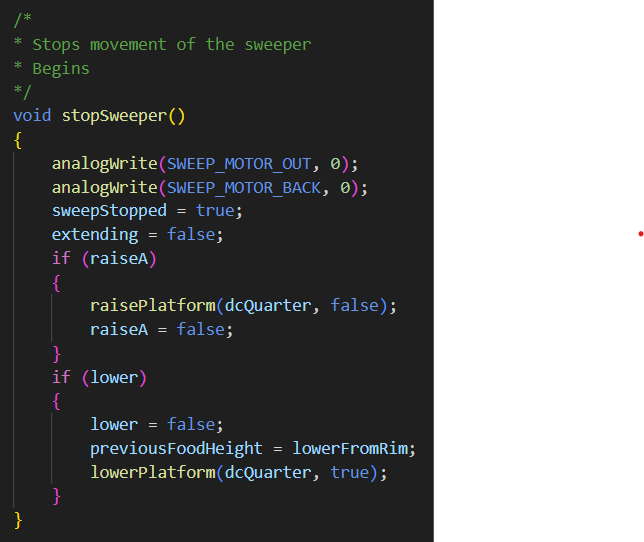
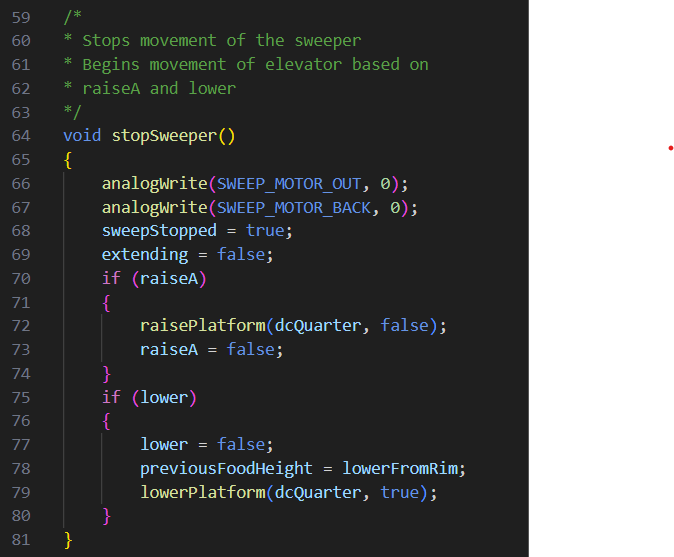
RobotComp page entirely complete!

diff --git a/src/components/pages/projects/robotcomp/timelineElements.js b/src/components/pages/projects/robotcomp/timelineElements.js
@@ -291,17 +291,17 @@ let timelineElements = [
       id: 4,
       title: "Arm & Elevator Control",
       description:
-        "As is seen in the video above, our robots swept in items with a long arm, as well as lowered/raised their internal elevator. Achieving that precision and coordination took time and testing.",
+        "As is seen in the video above, our robots swept in items with long arms, as well as lowered/raised their internal elevators. Achieving that precision and coordination took time and testing.",
       icon: "mcu",
       content:
         <div>
           Now that our robot was well on it's way to being fully constructed, I could get started on testing approaches for controlling the sweeper and elevator. 
-          To clarify what I mean by arm and sweeper, here is a video of them moving simulatenously.
+          To clarify what I mean by sweeper (aka arm) and elevator, here is a video of them moving simulatenously.
           <video muted controls className="adjust-demo-video">
             <source src="/images/burger_adjust_demo.mp4" type="video/mp4" />
               Your browser does not support the video tag.
           </video>
-          <br />I filmed the above video to send to the rest of my team after I had gotten the above to work. 
+          <br />I filmed the above video to send to the rest of my team after I had got it to work. 
           It's purpose was to adjust the burger into a more well-stacked position before serving it. 
           First, the sweeper retracts to pull the top bun onto the rest of the burger, then the elevator raises, 
           and the sweeper retracts back a small amount so that the patty and top bun became centred on the burger. 
@@ -312,24 +312,24 @@ let timelineElements = [
           Each was connected through a gear mechanism to a rotary encoder. 
           Additionally, we placed limit switches as "resets", so that any small errors in the signal received from the encoders would not accumulate. 
           Each encoder and switch were attached to their own interrupts. I'll start by explaining the encoder interrupts.
-          <img src="/images/sweepencoderinterrupt.png" alt="Rotary encoder interrupt for sweeper" className="bubs" />
-          <br />Hopefully it is clear from my code that I try to make it as readable as possible. 
+          <img src="/images/sweepencoderinterrupt.png" alt="Rotary encoder interrupt for sweeper" className="interrupt" />
+          <br />Just a couple quick notes: Hopefully it is clear from my code that I try to make it as readable as possible. 
           For this project I added high level comments for some functions, however if I was working with a team, 
           I would have added more elaborate comments in the header files. 
           Additionally, I try my best to avoid magic numbers, instead creating variables with descriptive names. 
           I always add white space in what I take to be a sensible manner (messy code bothers me). 
-          <br /><br />The crux of this function is how it handles the signals from the encoder. 
-          But before I explain the above method, I'll explain what we were originally using:
+          <br /><br />The most interesting part of this function is how it handles the signals from the encoder. 
+          But before I explain the above method, I'll explain what we were originally using:<br />
           <img src="/images/oldsweepinterrupt.png" alt="Old rotary encoder interrupt for sweeper" className="bubs" />
           <br />In order to explain, I will reference the following diagram for quadrature encoders:
-          <img src="/images/oldquadratureencoder.png" alt="Pulse channels for quadrature encoders (previous method)" className="bubs" />
+          <img src="/images/oldencoderdiagram.jpg" alt="Pulse channels for quadrature encoders (previous method)" className="subs" />
           <br />In separate initialization code, the interrupt function is set to be triggered upon a detected rising edge in SWEEP_ENCODER_1, named Channel A in the diagram. 
           I've marked red dots indicating the values of the two channels at the rising edges of Channel A. A simple differentiation between a clockwise and counterclockwise rotation was checking whether or not the values from the two channels were equal, as is done in the code above. 
           This worked well and provided enough precision for the sweeper, but the elevator required more precision. Given our gear ratio, each pulse we measured from the elevator's encoder indicated 1.636mm of vertical displacement (this constant is referred to as SWEEP_PULSE_DISTANCE in the code). 
           Our strategy involved aligning the partially stacked burger perfectly at the height of the counter to sweep on the next item, and in combination with random variation, an accuracy of only about 2mm wasn't ideal. 
           To improve on this, my teammate and I updated the method in which we analyzed the encoder channels. 
-          By reading the current values and comparing them with the <i>previous</i> values. This can be done at every transition of either channel, which is 4 times more often than the previous method, as indicated in the below diagram. 
-          <img src="/images/newquadratureencoder.png" alt="Pulse channels for quadrature encoders (updated method)" className="bubs" />
+          By reading the current values and comparing them with the <i>previous</i> values. This can be done at every transition of either channel, which is 4 times more often than the previous method, as indicated in the below diagram.<br />
+          <img src="/images/newencoderdiagram.jpg" alt="Pulse channels for quadrature encoders (updated method)" className="subs" />
           <br />Here is the relevant part of the updated interrupt function:
           <img src="/images/sweepinterruptfirst.png" alt="Rotary encoder channel analysis" className="bubs" />
           <br />The first few lines of the function perform bitwise operations to combine the 2 new values with the two previous.
@@ -342,21 +342,35 @@ let timelineElements = [
           This was because some counters were higher than others, and when the competition surfaces would get moved down and rebuilt in the theatre, the heights could change on the day of the competition. 
           This meant it would be too risky to rely on having our robots perfectly align with the height of the counters. 
           <br /><br />I'll now explain the second half of the interrupt function and how it accounted to various aspects of our mechanical design. 
-          Once again, here is the relevant code section:
+          Once again, here is the relevant code section:<br />
           <img src="/images/sweepinterruptsecond.png" alt="Sweep encoder interrupt distance checks" className="bubs" />
-          <br />
-          TODO:
-            - explain need for slowing down when extending
-            - explain overshoot distance
-            - possible explain where distanceToSweep comes from
-          <div className="content-wrapper">
-            <div className="image-content">
-              <img src="/images/sweepswitchinterrupt.png" alt="Limit switch interrupt for sweeper" className="gm-left" />
-            </div>
-            <div className="image-content">
-              <img src="/images/stopsweeperfunction.png" alt="stopSweeper function" className="jm-right" />
-            </div>
-          </div>
+          <br />After sweepCounter is updated in the first part of the interrupt, 
+          there are two checks being made in the second part. 
+          The first check determines if the item has been swept onto the burger far enough. 
+          This check only happens when the sweeper is retracting, and has yet to be stopped. 
+          The number of pulses counted in sweepCounter is then compared to the number of desired ticks, which is in turn calculated by taking the distanceToSweep (in mm, and determined by the current station the robot is at), 
+          and dividing it by the SWEEP_PULSE_DISTANCE (in mm per encoder tick). 
+          The sweeper would carry enough momentum to travel a short distance even after the PWM signal to the motor had ceased. 
+          I empirically determined the OVERSHOOT_DIST to be 9.8mm. 
+          This value would be affected by changes in things such as the speed or mass of the sweeper, or the design of the gear system that connected the rail to the motor and encoder. 
+          Once I accounted for the overshooting, and the motor turned off when the sweeper was 9.8mm from the final position, it lined up perfectly with where it needed to be. 
+          <br /><br />The other check at the end of the interrupt function slows down the motor if it has extended a certain distance. 
+          At first, I had the sweeper extending at a constant speed. However in testing, the acrylic gears we were using broke, multiple times. 
+          It happened because of the sudden force applied to the gears when the sweeper went from extending to being stationary. 
+          In addition to waterjet cutting new gears out of polycarbonate (which is less brittle than acrylic), I added the check to slow down the sweeper before it reaches the end. 
+          The only time it is extending <i>not</i> to prepare for sweeping the next item is serving the plate, which is why I added the condition that the current station cannot be the serving area. 
+          <br /><br />That was the essence of how the firmware controlled the sweeper, as well as the elevator, which was mostly the same. 
+          If you rewatch the video at the beginning of this section, you will notice that each action happens exactly when the previous terminates. 
+          Did I measure the timings and add the exact right delays between each function call? Well, while running that sequence in an actual competition run, 
+          the delay would block the rest of the code from being able to perform certain actions, such as changing how the wheels were being powered. 
+          So maybe I could have used timers, and perhaps that would allow me to introduce some overlap between the end of one step and the start of another. 
+          However time for this sequence was not too tight, and instead of using timers, I introduced booleans that upon the completion of a step, if set to true would automatically begin the next step.<br />
+          <img src="/images/stopsweeperfunction.png" alt="stopSweeper function" className="lubs" />
+          <br />The above function is called either when the encoder interrupt counts enough pulses, or when the limit switch is pressed while the sweeper is extending. 
+          In addition to setting the PWM output to 0, it performs checks on two variables which were set when the sweeper was originally instructed to extend or retract. 
+          This way, as soon as the sweeper stops, the elevator starts, without having to rely on timing.
+          <br /><br />Thank you for reading this final section! I hope it was interesting; I know it sure was when my team and I were working on it.
+          <br /><br /><br /><br />        
         </div>
     },
   ];

diff --git a/src/components/pages/projects/Website.js b/src/components/pages/projects/Website.js
@@ -27,7 +27,7 @@ function Website() {
           <br />
             I was able to get started using React on my own by following guides online.
             Once I had an intuition for how the code was structured, I was able to start freestyling my own pages and features.
-            For new features, such as scrolling up or down on the click of a button, I would once again look for help online.
+            For new features, such as automatic scrolling up or down upon the click of a button, I would once again look for help online.
             It's amazing how easy something can be if you just enjoy doing it! 
           </h6>
           <h6 className="website-text">
@@ -39,6 +39,12 @@ function Website() {
           <img src="/images/website_code_example.png" alt="Code snippet image" className="website-image" />
           </div>
         </div>
+        <h6 className="bottom-text">
+          As you look through the website, you'll probably notice (or maybe you already have) that while some pages look rather basic (such as this one), 
+          others look nicer. As I made more pages I tried to make them better and better, and I spent more time on my favourite projects. 
+          As of writing this, the best page is definitely Robot Competition 2024 (under class projects), so make sure you take a look at that one. 
+          This website is a constant work in progress, so check back for new projects that I'll be adding!
+        </h6>
       </div>
     </div>
   );

diff --git a/src/components/pages/projects/robotcomp/Modal.css b/src/components/pages/projects/robotcomp/Modal.css
@@ -74,14 +74,10 @@
 }
 
 .modal-image,
-.im-left,
-.im-right,
-.gm-left,
-.gm-right,
-.jm-left,
-.bubs,
-.om-left,
-.om-right {
+.im-left, .im-right, .gm-left, .gm-right, .jm-left,
+.bubs, .subs, .lubs,
+.om-left, .om-right,
+.interrupt {
   position: relative;
   margin-top: 40px;
   margin-bottom: 40px;
@@ -129,6 +125,21 @@
 .bubs {
     width: 60%;
     margin-left: 220px;
+}
+
+.subs {
+    width: 40%;
+    margin-left: 330px;
+}
+
+.lubs {
+    width: 40%;
+    margin-left: 384px;
+}
+
+.interrupt {
+    width: 61%;
+    margin-left: 180px;
 }
 
 .content-wrapper {

diff --git a/src/components/pages/projects/Website.css b/src/components/pages/projects/Website.css
@@ -22,7 +22,7 @@
 
 .website-container-main {
   background: rgba(244, 236, 236, 0.595);
-  height: 100vh;
+  height: 130vh;
   width: 100%;
   display: flex;
   flex-direction: column;
@@ -58,6 +58,16 @@
   flex: 1;
 }
 
+.bottom-text {
+  font-size: 20px;
+  max-width: 1100px;
+  color: rgb(0, 0, 0);
+  position: relative;
+  top: 0px;
+  left: auto;
+  flex: 1;
+}
+
 .website-image {
   position: relative;
   top: -80px;
@@ -70,7 +80,7 @@
 .date-text5 {
   font-size: 25px;
   left: -650px;
-  top: 12px;
+  top: 7px;
   position: relative;
   flex: 1;
 }

diff --git a/src/components/Footer.js b/src/components/Footer.js
@@ -18,9 +18,6 @@ function Footer() {
         <div>
           <h2>Contact Me:</h2>
           <p className="contact-me-email">Email: jordanwerstiuk@gmail.com</p>
-          <p className="contact-me-subtext">
-            (My LinkedIn is in the top-left)
-          </p>
         </div>
       </section>
     </div>
